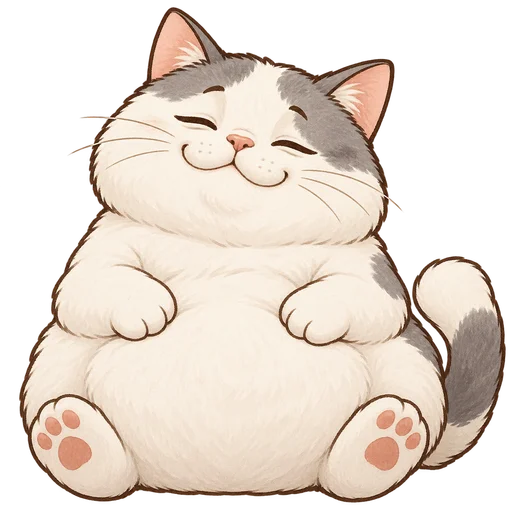
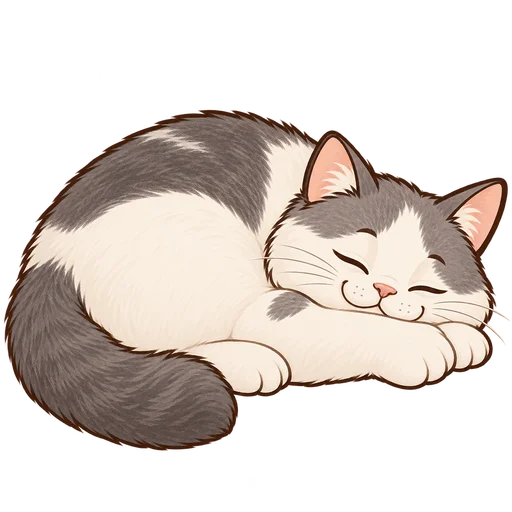
fix(art): match Roman portrait to pet reference

diff --git a/docs/assets-v05.md b/docs/assets-v05.md
@@ -5,7 +5,7 @@ Six original character illustrations were generated with the built-in image gene
 - Runtime assets: `public/art/companions/{id}.webp`.
 - Final generation prompts: [companion-art-prompts.json](companion-art-prompts.json).
 - Each character is 512 × 512 with transparent alpha. The bundled Sharp library was used only for delivery resizing and WebP encoding (quality85, alpha100). No new project dependency.
-- Combined compressed size: **309,838 bytes**. All six are local and available offline.
+- Combined compressed size: **296,188 bytes**. All six are local and available offline.
 - The same artwork is used in collection cards and the workshop. The latter is a camera-facing Three.js Sprite over the existing 3D cushion; workers remain procedural 3D cats.
 - Only the currently selected portrait owns a GPU texture. Changing selection releases the old texture. Stale asynchronous loads cannot replace a newer selection, and the controller disposes its texture/material on teardown.
 - Unavailable/locked companions never show on the cushion. Loading or failed portraits remain hidden instead of displaying stale art. The HTML collection and its bonuses do not depend on WebGL rendering.
@@ -27,3 +27,7 @@ Mario now follows the user's photograph: a fluffy white-and-muted-brown/grey tab
 ## Luigi gentle-firm portrait — 25 September 2026
 
 Luigi's revised sprite keeps his fluffy grey-brown tabby stripes, white muzzle, bib and paws, and full plume tail from the user's photograph. He now sits squarely with both front paws grounded. A small closed mouth and relaxed attentive eyes make him look quietly determined and affectionate rather than angry or threatening. The illustration follows the same simplified 2D chibi treatment as Kira. The personal reference photograph is not redistributed, and no bonus, unlock, ID, gameplay or save data changed.
+
+## Roman personal reference portrait — 25 September 2026
+
+The user's photograph establishes Roman's distinct white-and-cool-grey coat: a broad grey saddle across the upper back, grey head cap and tail, with a white face, chest, plump belly and front paws. His revised chibi sprite curls into a peaceful nap with his head on his paws, distinct from Mario's dangling-paws pose. The gentle closed-eye expression replaces the old exaggerated smiling belly pose. The personal reference photograph is not redistributed; this is an art-only replacement with no change to bonuses, unlocks, IDs, gameplay or saves.

diff --git a/README.md b/README.md
@@ -16,7 +16,7 @@ No package installation or internet connection is needed to play the included bu
 - The selected unlocked companion appears on the workshop's 3D cushion. A new game leaves it empty. **Only the selected companion grants a bonus**; collecting more cats does not stack buffs.
 - Harder permanent challenges span tapping, crew growth, upgrades, offline production, and restarts. Collection cards show requirements, progress, and each bonus in English and Spanish.
 - Existing earned companions and their selection remain unlocked at the same save indices. New conditions apply to companions not already earned; no player progress is confiscated.
-- Six local transparent illustrations add 309,838 bytes. No new runtime dependency, account, download-at-playtime, or monetization was added.
+- Six local transparent illustrations add 296,188 bytes. No new runtime dependency, account, download-at-playtime, or monetization was added.
 
 | Companion | Unlock challenge | Selected bonus |
 | --- | --- | --- |
